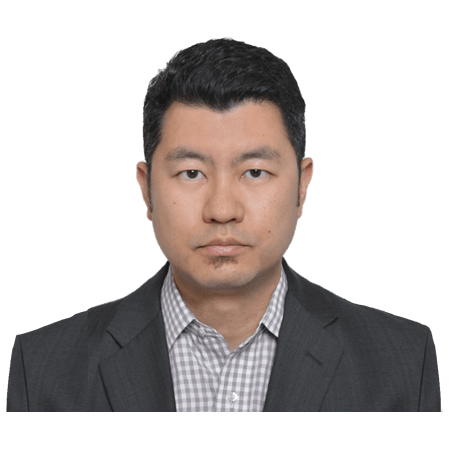
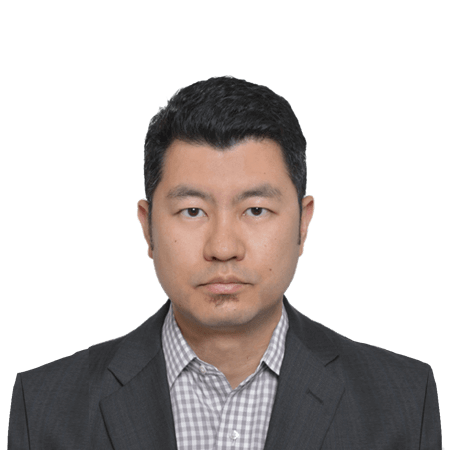
Position Will card below Yan and restore original photo

diff --git a/public/cn/index.html b/public/cn/index.html
@@ -346,7 +346,7 @@
             
           </ul>
         </div> </li> 
-        <li> 
+        <li class="member-will"> 
         <div class="user-info-box"> 
           <div class="avatar"> 
           <img data-src="/statics/will.png" alt="" /> 

diff --git a/public/en/index.html b/public/en/index.html
@@ -346,7 +346,7 @@
             
           </ul>
         </div> </li> 
-        <li> 
+        <li class="member-will"> 
         <div class="user-info-box"> 
           <div class="avatar"> 
           <img data-src="/statics/will.png" alt="" /> 

diff --git a/public/index.html b/public/index.html
@@ -346,7 +346,7 @@
             
           </ul>
         </div> </li> 
-        <li> 
+        <li class="member-will"> 
         <div class="user-info-box"> 
           <div class="avatar"> 
           <img data-src="/statics/will.png" alt="" /> 

diff --git a/public/css/pc.css b/public/css/pc.css
@@ -36,6 +36,10 @@
 	.member-list li:nth-of-type(3n) {
 		margin-right: 0;
 	}
+	.member-list li.member-will {
+		margin-left: calc(120px + ((100% - 360px)/2));
+		margin-right: 0;
+	}
 	.member-list li .avatar {
 		width: 120px;
 		height: 120px;

diff --git a/public/css/mobile.css b/public/css/mobile.css
@@ -39,6 +39,10 @@
 	.member-list li:nth-of-type(3n) {
 		margin-right: 0;
 	}
+	.member-list li.member-will {
+		margin-left: calc(80px + ((100% - 240px)/2));
+		margin-right: 0;
+	}
 	.member-list li .avatar {
 		width: 80px;
 		height: 80px;
